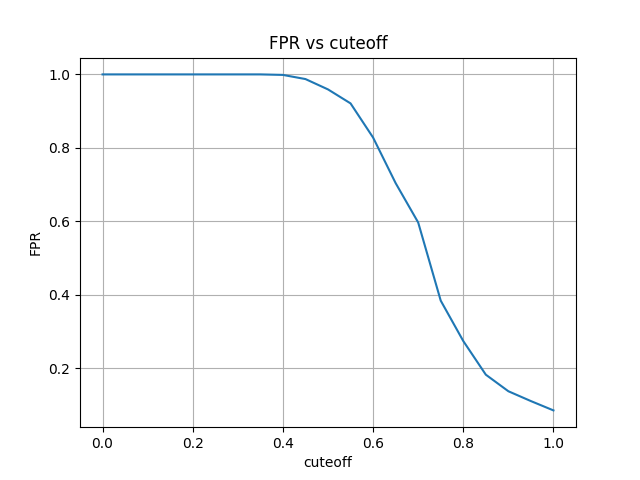
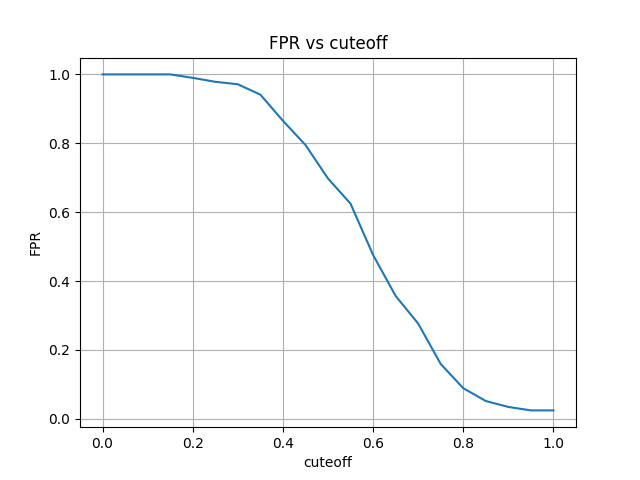
change ngram like musicsampling

diff --git a/fuzzymatch_ngram.py b/fuzzymatch_ngram.py
@@ -43,7 +43,7 @@ import nmslib
 
 
 # %%
-def ngrams(string, n=2):
+def ngrams(string, n=4):
     """Takes an input string, cleans it and converts to ngrams. 
     This script is focussed on cleaning UK company names but can be made generic by removing lines below"""
     string = str(string)
